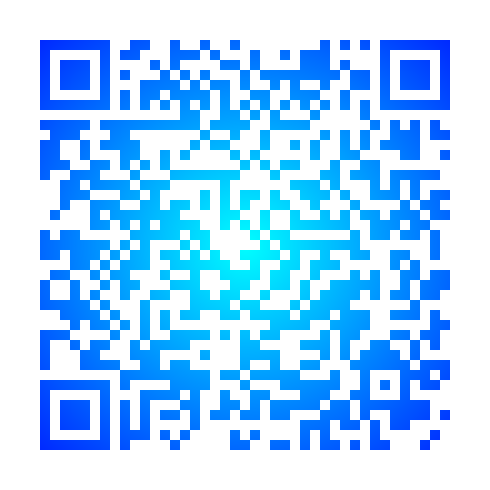
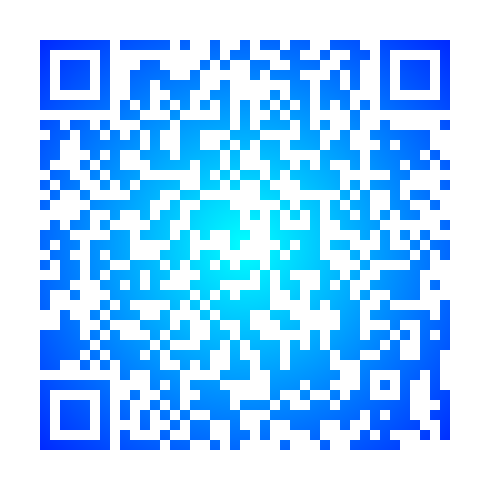
完成

Changed region(s): [[0.0612, 0.0612, 0.9184, 0.9184]]

diff --git a/businessCard.py b/businessCard.py
@@ -15,7 +15,7 @@ qr = qrcode.QRCode(
 qr.add_data('''
 BEGIN:VCARD
 FN:CHANG Yu-cheng
-TEL;CELL:0929312288
+TEL;CELL:0929312287
 EMAIL:johnny31258@gmail.com
 URL:https://github.com/joohnny3
 END:VCARD
